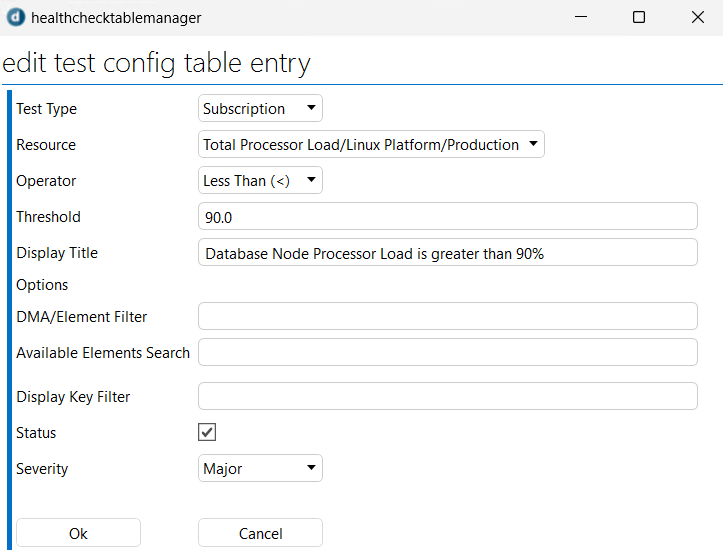
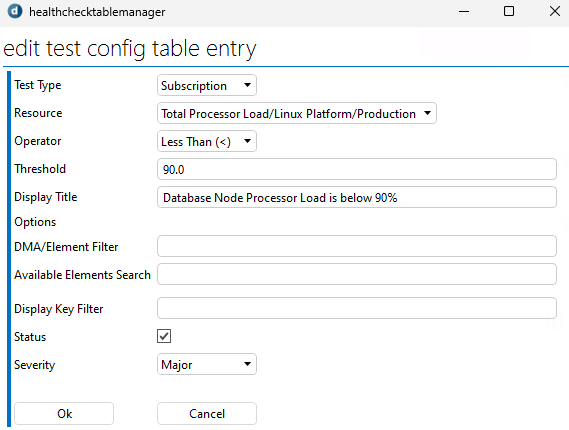
Fixes to Health Check requests

diff --git a/solutions/custom_solutions/Health_Check_tool/Dataminer_Health_Check_Tool_Configuration.md b/solutions/custom_solutions/Health_Check_tool/Dataminer_Health_Check_Tool_Configuration.md
@@ -160,7 +160,7 @@ These are some recommended subscription-based tests that will monitor your compu
 
 These tests are useful when utilizing an on-premises database with Cassandra, OpenSearch, and/or Elastic Nodes. 
 
-###### Total Processor Load is Below 80%
+###### Total Processor Load is Below 90%
 - Subscription Settings
 
 ![Total Processor Load Subscription](../../../solutions/images/Health_Check_Linux_Total_Processor_Load_Subscription.png)
